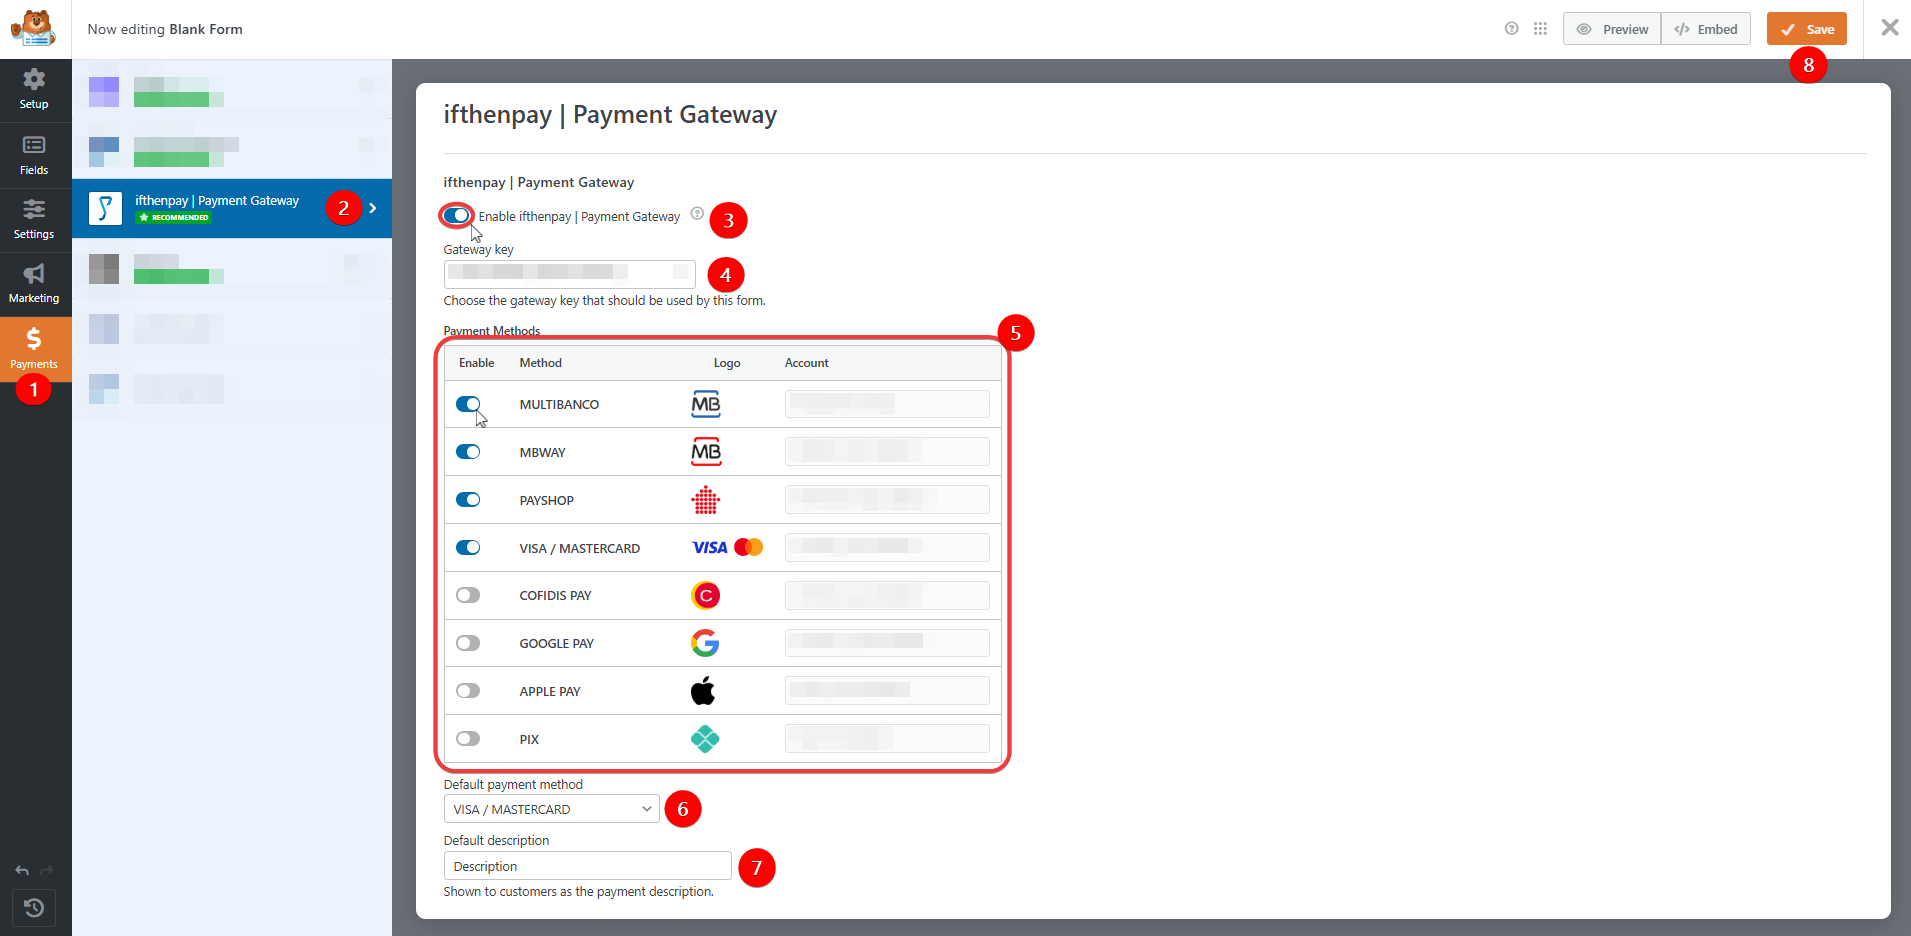
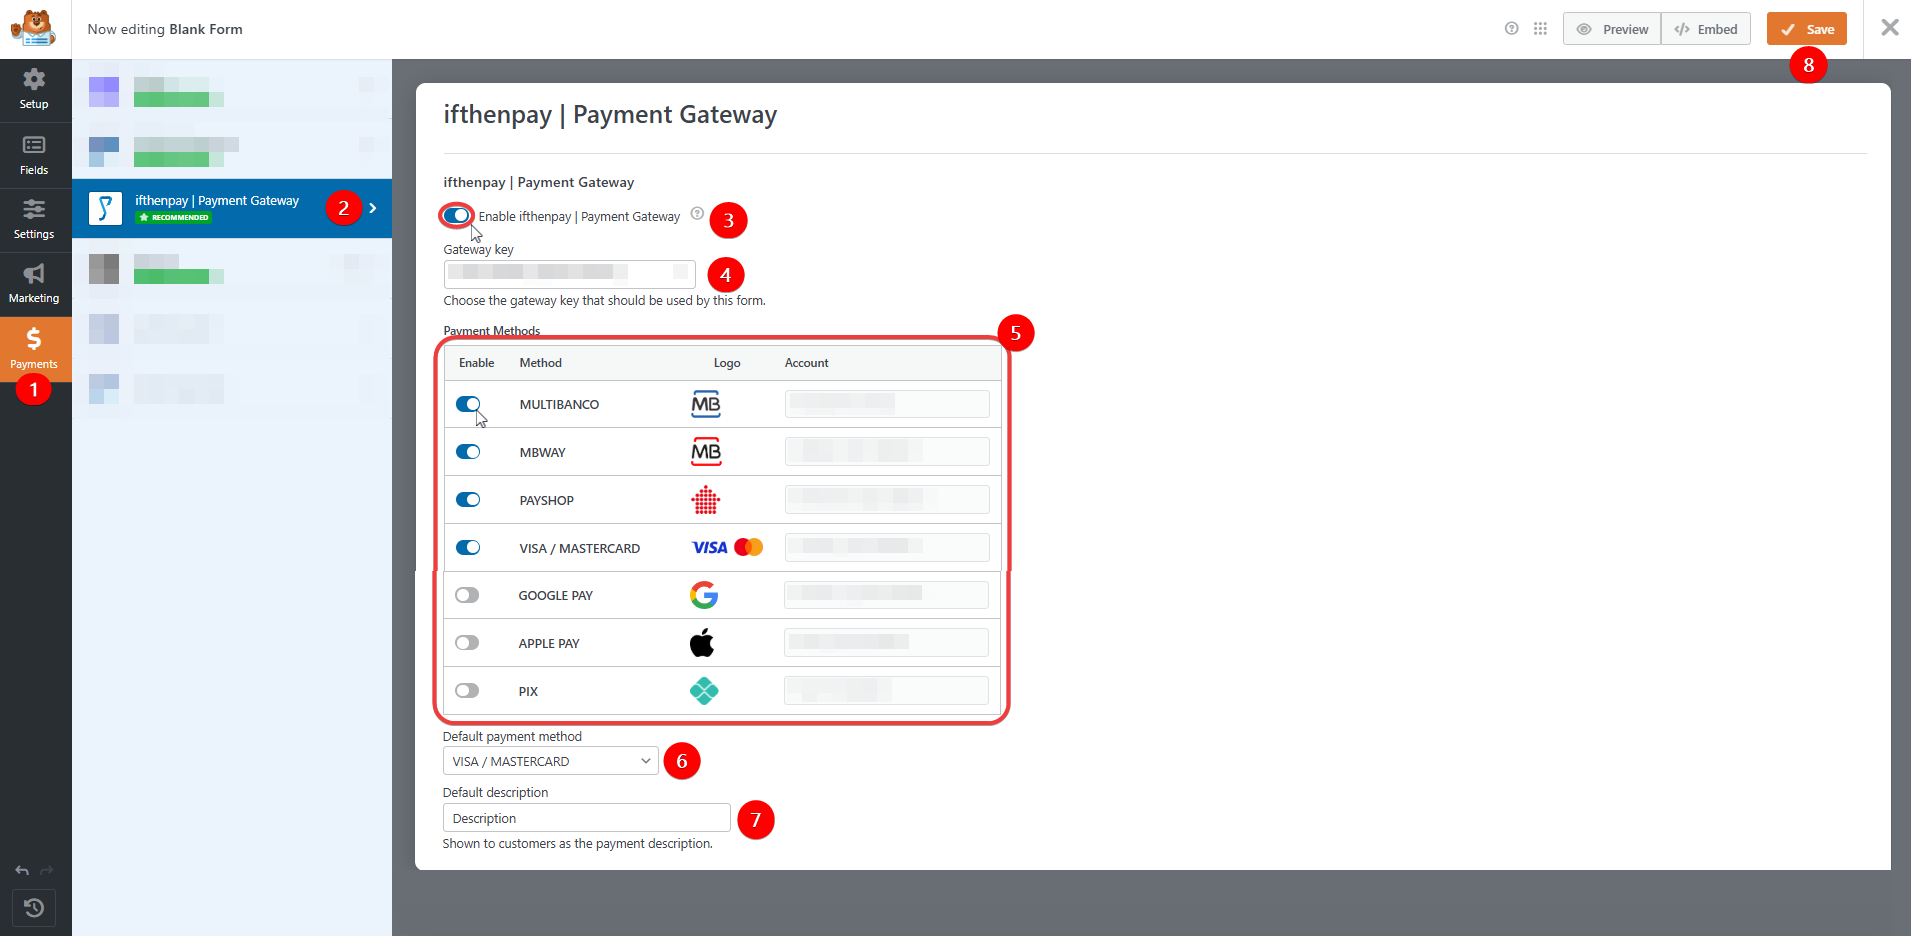
docs: removal of COFIDIS PAY from documentation

Changed region(s): [[0.2161, 0.6197, 1.0, 0.9915], [0.4014, 0.6506, 0.5249, 0.6816], [0.2779, 0.6197, 0.3087, 0.6506]]

diff --git a/README.md b/README.md
@@ -80,7 +80,7 @@ Yes. WPForms coupon fields are fully supported and discounts are automatically c
 
 <details>
 <summary><strong>Which payment methods are supported?</strong></summary>
-Any ifthenpay method attached to your Gateway Key (e.g. Multibanco, MB WAY, Payshop, Credit Card, Cofidis, Google Pay, Apple Pay, Pix).
+Any ifthenpay method attached to your Gateway Key (e.g. Multibanco, MB WAY, Payshop, Credit Card, Google Pay, Apple Pay, Pix).
 </details>
 
 <details>
